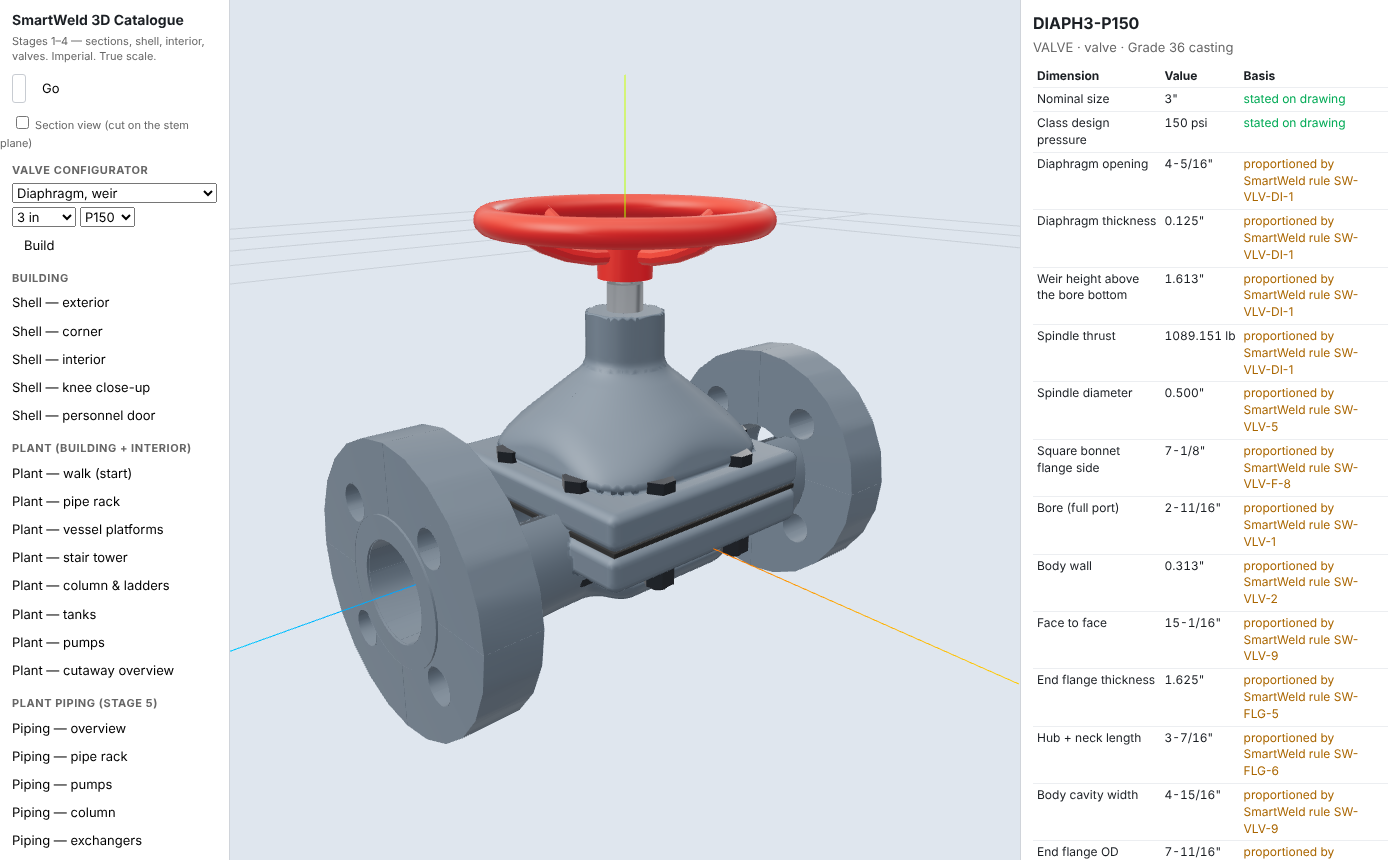
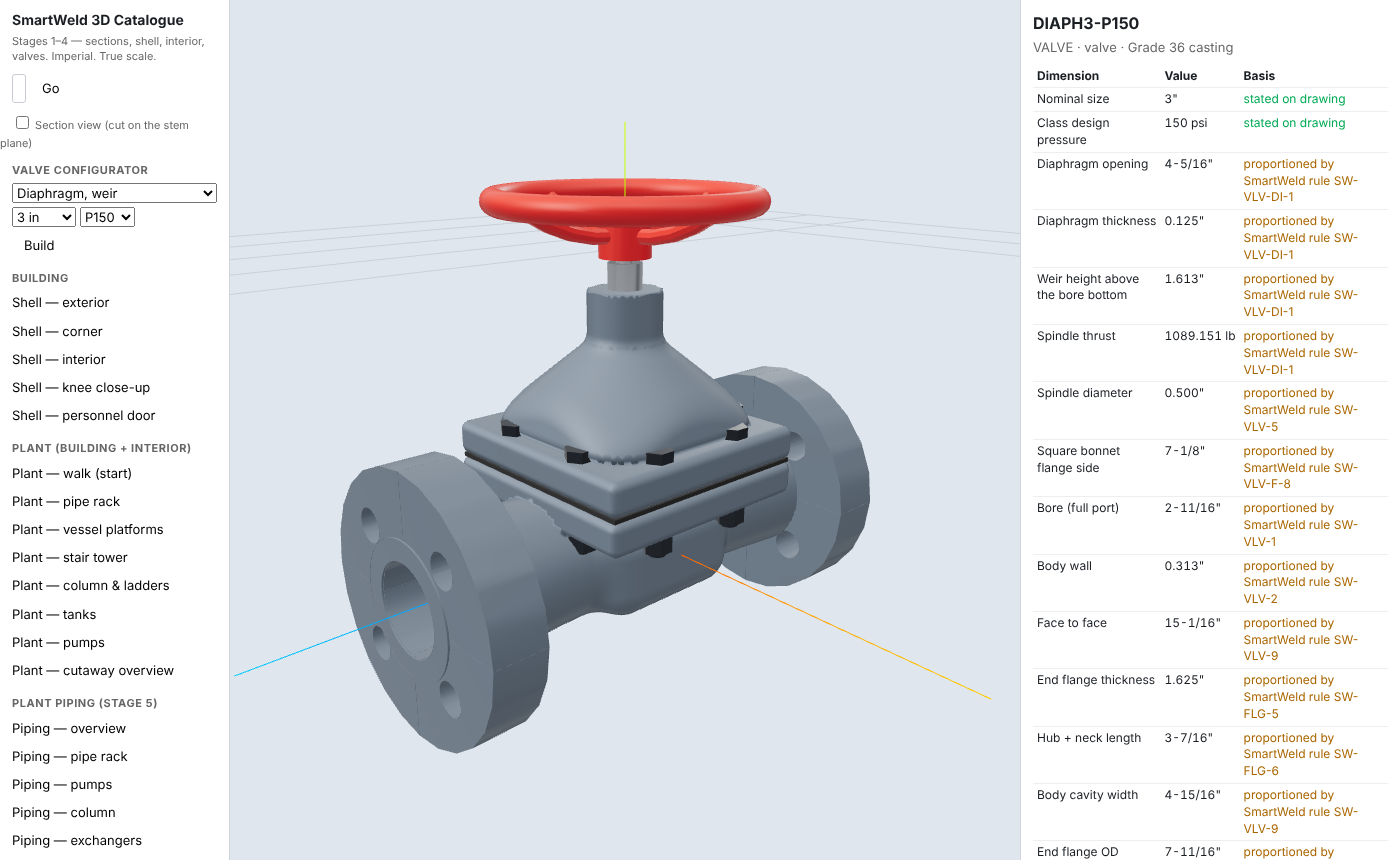
Valves: withdraw trunnion ball and dual-plate check; raise diaphragm body (P-49)
Catalogue now has 16 valve types. B-1 made self-contained; BT-* and CD-* retired; DI-1
body flange face at D/2 + t_b + 0.25 D. 417 tests passing; plant piping unchanged.

Claude-Session: https://claude.ai/code/session_01Lq1n1j5QwqtUtCwYEt9hS4

Changed region(s): [[0.215, 0.1814, 0.645, 0.8767], [0.2764, 0.8163, 0.3071, 0.8465]]

diff --git a/smartweld/src/catalogue/parts/valves.ts b/smartweld/src/catalogue/parts/valves.ts
@@ -1,4 +1,4 @@
-/** Valves: DESIGN_BASIS.md sections 31–32. 18 types, each a distinct design. Local frame: flow along +z, stem up +y, x across. */
+/** Valves: DESIGN_BASIS.md sections 31–32. 16 types, each a distinct design. Local frame: flow along +z, stem up +y, x across. */
 import { K } from '../../core/constants';
 import { drawing, rule, constant, type Dim } from '../../core/basis';
 import { roundUpTo } from '../../core/units';
@@ -15,11 +15,11 @@ import { polygonize, type SDF } from '../../geometry/sdf';
 
 const RHO = K.STEEL_DENSITY_LB_IN3;
 const rhoDim = () => constant(K.STEEL_DENSITY_LB_FT3, 'K-1', 'Steel density', 'lb/ft3');
-export type ValveType = 'GATE' | 'KNIFE' | 'GLOBE' | 'YGLOBE' | 'AGLOBE' | 'CHECK' | 'LCHECK' | 'DCHECK' | 'BALL' | 'TBALL' | 'BFLY' | 'LBFLY' | 'DBFLY' | 'PLUG' | 'DIAPH' | 'NEEDLE' | 'PSV' | 'CONTROL';
+export type ValveType = 'GATE' | 'KNIFE' | 'GLOBE' | 'YGLOBE' | 'AGLOBE' | 'CHECK' | 'LCHECK' | 'BALL' | 'BFLY' | 'LBFLY' | 'DBFLY' | 'PLUG' | 'DIAPH' | 'NEEDLE' | 'PSV' | 'CONTROL';
 export const VALVE_TYPES: { id: ValveType; name: string }[] = [
   { id: 'GATE', name: 'Gate, wedge, OS&Y' }, { id: 'KNIFE', name: 'Knife gate, lugged wafer' }, { id: 'GLOBE', name: 'Globe, T-pattern' }, { id: 'YGLOBE', name: 'Globe, Y-pattern' },
-  { id: 'AGLOBE', name: 'Angle globe' }, { id: 'CHECK', name: 'Swing check' }, { id: 'LCHECK', name: 'Lift (piston) check' }, { id: 'DCHECK', name: 'Dual-plate wafer check' },
-  { id: 'BALL', name: 'Ball, floating' }, { id: 'TBALL', name: 'Ball, trunnion-mounted' }, { id: 'BFLY', name: 'Butterfly, wafer' }, { id: 'LBFLY', name: 'Butterfly, lugged' },
+  { id: 'AGLOBE', name: 'Angle globe' }, { id: 'CHECK', name: 'Swing check' }, { id: 'LCHECK', name: 'Lift (piston) check' },
+  { id: 'BALL', name: 'Ball, floating' }, { id: 'BFLY', name: 'Butterfly, wafer' }, { id: 'LBFLY', name: 'Butterfly, lugged' },
   { id: 'DBFLY', name: 'Butterfly, double-flanged, double-offset' }, { id: 'PLUG', name: 'Plug, lubricated taper' }, { id: 'DIAPH', name: 'Diaphragm, weir' }, { id: 'NEEDLE', name: 'Needle' },
   { id: 'PSV', name: 'Pressure safety valve' }, { id: 'CONTROL', name: 'Control, globe with diaphragm actuator' },
 ];
@@ -32,7 +32,7 @@ const N = 48;
 // ---- offering (SW-VLV-11) --------------------------------------------------------------------------------
 const OFFER: Record<ValveType, [number, number, PipeClass]> = {
   GATE: [0.5, 48, 'P4800'], KNIFE: [2, 36, 'P150'], GLOBE: [0.5, 12, 'P4800'], YGLOBE: [0.5, 16, 'P4800'], AGLOBE: [0.5, 12, 'P4800'],
-  CHECK: [2, 48, 'P4800'], LCHECK: [0.5, 6, 'P4800'], DCHECK: [2, 48, 'P600'], BALL: [0.5, 6, 'P600'], TBALL: [2, 48, 'P4800'],
+  CHECK: [2, 48, 'P4800'], LCHECK: [0.5, 6, 'P4800'], BALL: [0.5, 6, 'P600'],
   BFLY: [2, 24, 'P300'], LBFLY: [2, 24, 'P300'], DBFLY: [3, 48, 'P1200'], PLUG: [0.5, 12, 'P600'], DIAPH: [0.5, 12, 'P300'],
   NEEDLE: [0.25, 1, 'P4800'], PSV: [1, 8, 'P4800'], CONTROL: [0.5, 12, 'P4800'],
 };
@@ -333,7 +333,7 @@ function globeBodySDF(c: Common, zi: number, tilt = 0): { body: SDF; info: Globe
 type Build = (b: ValveSolid[], NPS: number, cls: PipeClass, dims: Record<string, Dim>, notes: string[]) => { c: Common; op: Operator; extra?: Record<string, unknown> };
 const yokeTa = (c: Common) => Math.max(0.5, 0.15 * c.D, c.tb);
 
-// ---- kept: fabricated or machined designs (knife gate, dual-plate check, forged trunnion ball, needle) ----
+// ---- fabricated or machined designs (knife gate, needle) ----
 const buildKnife: Build = (b, NPS, cls, dims) => {
   const D0 = pipeDims(NPS, cls).D, P = CLASS_PRESSURE[cls];
   const w = Math.max(1.5, 0.12 * D0 + 1);
@@ -382,29 +382,9 @@ const buildKnife: Build = (b, NPS, cls, dims) => {
   return { c, op };
 };
 
-const buildDCheck: Build = (b, NPS, cls, dims) => {
-  const D0 = pipeDims(NPS, cls).D, wb = 0.25 * D0 + 1, c = common(NPS, cls, wb, D0); c.F2F = wb;
-  const { D, f } = c, bodyOD = f.BC - f.d - 0.25, rp = Math.max(0.375, 0.08 * D) / 2, tp = Math.max(3 / 16, 0.04 * D);
-  castPart(b, 'wafer body', S.subtract(S.blend(0.3, S.rcylZ(bodyOD / 2, -wb / 2, wb / 2, Math.min(0.3, wb * 0.15)), S.rcylY(0.45 + 0.03 * D, bodyOD / 2 - 0.5, bodyOD / 2 + 0.5, 0.15)), S.cylZ(D / 2, -wb, wb), S.cylY(0.22 + 0.01 * D, bodyOD / 2 - 0.4, bodyOD / 2 + 1)),
-    [-bodyOD / 2 - 0.3, -bodyOD / 2 - 0.3, -wb / 2 - 0.1], [bodyOD / 2 + 0.3, bodyOD / 2 + 0.7, wb / 2 + 0.1], Math.min(c.tb, wb / 4));                 // F-5: ring with lifting-eye boss
-  { const re = 0.5 + 0.03 * D, rw = 0.12 + 0.008 * D, yE = bodyOD / 2 + 0.5 + re;                                   // lifting eyebolt
-    push(b, 'lifting eyebolt', mergeMeshes([transformMesh(torusY(re, rw, 0), multiply(translate(0, yE, 0), rotateX(Math.PI / 2))), cylY(0.2 + 0.01 * D, bodyOD / 2 - 0.4, yE - re + rw)]), 'hardware', STUDM); }
-  for (const sy of [-1, 1]) push(b, 'retainer plug', hexPrismY(0.6 + 0.04 * D, sy > 0 ? bodyOD / 2 - 0.01 : -bodyOD / 2 - 0.35, sy > 0 ? bodyOD / 2 + 0.35 : -bodyOD / 2 + 0.01, 0, Math.min(0.3 * D, wb / 2 - rp * 0.7 - 0.1)), 'hardware', STUDM);   // retain the stop pin; the post is retained under the eye boss
-  const zStop = Math.min(0.3 * D, wb / 2 - rp * 0.7 - 0.1);
-  const rRet = (D / 2 + bodyOD / 2) / 2;                                                                       // post ends retained in holes in the body ring
-  push(b, 'hinge post', cylY(rp, -rRet, rRet), 'stem', BAR);
-  push(b, 'stop pin', cylY(rp * 0.7, -rRet, rRet, 0, zStop), 'stem', BAR);
-  for (const sx of [-1, 1]) {
-    const half: Polygon = dedupe([{ x: sx * (rp + 0.05), y: -0.48 * D }, ...arc(0, 0, 0.48 * D, sx > 0 ? -Math.PI / 2 : 1.5 * Math.PI, sx > 0 ? Math.PI / 2 : Math.PI / 2, 24).filter(p => sx * p.x >= rp + 0.05 - 1e-9), { x: sx * (rp + 0.05), y: 0.48 * D }]);
-    push(b, 'plate', transformMesh(extrude({ outer: half }, tp), translate(0, 0, 0.02)), 'closure');
-    push(b, 'torsion spring', transformMesh(helixTube(rp + 0.08, 0.1, 3, 0.04, 16, 8), multiply(translate(0, sx * 0.25 * D, 0), toY)), 'stem', 'Grade 180 spring wire');
-  }
-  Object.assign(dims, { bodyW: rule(wb, 'SW-VLV-CD-1', 'Body width'), bodyOD: rule(bodyOD, 'SW-VLV-CD-1', 'Body OD'), plateT: rule(tp, 'SW-VLV-CD-1', 'Plate thickness'), post: rule(2 * rp, 'SW-VLV-CD-1', 'Post diameter') });
-  return { c, op: { kind: 'none', rimForce: 0, T: 0 } };
-};
 
 const mirrorZ = (m: MeshData): MeshData => { const p = m.positions.slice(); for (let i = 2; i < p.length; i += 3) p[i] = -p[i]; const idx = m.indices.slice(); for (let k = 0; k < idx.length; k += 3) { const t = idx[k + 1]; idx[k + 1] = idx[k + 2]; idx[k + 2] = t; } return { positions: p, indices: idx }; };
-/** ball-valve body of BT-1: thick cylinder along z, bore 2Rc, OD Db, from −zj to zj, chamfered outer edges */
+/** ball-valve centre body of B-1: thick cylinder along z, bore 2Rc, OD Db, from −zj to zj, chamfered outer edges */
 function forgedBody(Rc: number, Db: number, zj: number, rr = 0.1 * (Db / 2 - Rc)): MeshData {
   const R = Db / 2, loop: { r: number; z: number }[] = [{ r: Rc, z: -zj }];
   for (let i = 0; i <= 8; i++) { const a = (Math.PI / 2) * (i / 8); loop.push({ r: R - rr + rr * Math.sin(a), z: -zj + rr - rr * Math.cos(a) }); }
@@ -413,7 +393,7 @@ function forgedBody(Rc: number, Db: number, zj: number, rr = 0.1 * (Db / 2 - Rc)
   return revolve(dedupeRZ(loop), N);
 }
 const dedupeRZ = (p: { r: number; z: number }[]) => p.filter((q, i) => i === 0 || Math.hypot(q.r - p[i - 1].r, q.z - p[i - 1].z) > 1e-6);
-/** one end of a ball valve on +z (BT-1 / B-1): bolted adapter (gasket, studs tapped into the body, adapter flange) or integral collar, then a curved taper, neck and pipe flange. */
+/** one end of a ball valve on +z (B-1): bolted adapter (gasket, studs tapped into the body, adapter flange) or integral collar, then a curved taper, neck and pipe flange. */
 function ballEnd(c: Common, fe: FlangeDesign, zj: number, Db: number, bolted: boolean, taperK = 0.45, neckMin = 0): { solids: ValveSolid[]; zFace: number } {
   const { D, tb, f } = c, out: ValveSolid[] = [], h = hexHardware(fe.d);
   const z1 = zj + fe.gasketT + fe.tf;
@@ -439,7 +419,7 @@ function ballEnd(c: Common, fe: FlangeDesign, zj: number, Db: number, bolted: bo
   return { solids: out, zFace };
 }
 const pushEnd = (b: ValveSolid[], e: { solids: ValveSolid[] }, side: 1 | -1) => { for (const x of e.solids) b.push({ ...x, mesh: side > 0 ? x.mesh : mirrorZ(x.mesh) }); };
-/** stem pad on top and trunnion/bottom pad on a cylindrical body of radius Rb2 (BT-1) */
+/** stem pad on top or bottom pad on a cylindrical body of radius Rb2 (B-1) */
 function bodyPad(Rb2: number, rp: number, up: 1 | -1, proud: number): MeshData {
   const y0 = Math.sqrt(Math.max(0, Rb2 * Rb2 - rp * rp)) - 0.2;
   return up > 0 ? cylY(rp, y0, Rb2 + proud) : cylY(rp, -(Rb2 + proud), -y0);
@@ -451,48 +431,6 @@ function ballWithBore(Rb: number, D: number): MeshData {
   loop.push({ r: D / 2, z: zc }, { r: D / 2, z: -zc });
   return revolve(loop, N);
 }
-const buildTBall: Build = (b, NPS, cls, dims) => {
-  const D0 = pipeDims(NPS, cls).D, Rb = 0.75 * D0, sc = 0.15 * D0;
-  const c = common(NPS, cls, 1.5 * D0 + 2 * sc + 1, 2 * Rb + 2 * sc); const { D, tb, P } = c;
-  const Rc = Rb + sc, fe = designFlange(NPS, cls, 2 * Rc, tb, 2 * Rc + 2 * tb), Db = fe.BC + 3.5 * fe.d, zj = Rc + 0.5;   // BT-1
-  push(b, 'centre body (forged)', forgedBody(Rc, Db, zj, 1.5 * fe.d));
-  const end = ballEnd(c, fe, zj, Db, true, 1.0, 0.25 * D);
-  pushEnd(b, end, 1); pushEnd(b, end, -1);
-  c.wBody = 2 * zj; c.F2F = 2 * end.zFace;
-  push(b, `ball ${2 * Rb} in`, ballWithBore(Rb, D), 'closure', BAR);
-  for (const s of [-1, 1]) {
-    push(b, 'seat carrier', ringZ(0.6 * D + sc, 0.6 * D - sc / 2, s * (Rb - 0.2 * sc) - sc / 2, s * (Rb - 0.2 * sc) + sc / 2), 'stem', BAR);
-    push(b, 'seat insert', ringZ(0.6 * D + sc / 4, 0.6 * D - sc / 2, s * (Rb - 0.2 * sc) - sc / 2 - 0.08, s * (Rb - 0.2 * sc) - sc / 2), 'polymer', 'polymer');
-    const room = Math.max(0.3, zj - (Rb + 0.3 * sc) - 0.1), spr: MeshData[] = [];                              // springs between the carrier and the adapter face
-    for (let i = 0; i < 6; i++) { const a = (2 * Math.PI * i) / 6; spr.push(transformMesh(helixTube(Math.min(0.06 * D, sc / 2), room / 3, 3, Math.min(0.02 * D, sc / 8), 12, 6), translate((0.6 * D + sc / 4) * Math.cos(a), (0.6 * D + sc / 4) * Math.sin(a), s > 0 ? Rb + 0.3 * sc : -Rb - 0.3 * sc - room))); }
-    push(b, 'seat springs 6', mergeMeshes(spr), 'stem', 'Grade 180 spring wire', 6);
-  }
-  const T = P * Math.PI * (1.2 * D) * (0.1 * D) * 0.1 * (0.6 * D) + P * (Math.PI / 4) * D * D * 0.05 * 0.5;        // BT-2 (stem term uses a provisional ds/2 = 0.5)
-  const ds = ballStem(T), op = sizeOperator(T, true);
-  // BT-1: stem housing — a raised boss closed by a bolted cover, then a mounting spool to the operator; the same boss
-  // and cover close the trunnion underneath
-  const rp = Math.max(ds + 3, 0.4 * D) / 2 + ds / 2, yBoss = Db / 2 + 1, tc = Math.max(0.75, 0.5 * ds), dB = Math.max(0.375, roundUpTo(0.12 * rp, 1 / 8)), hB = hexHardware(dB);
-  const rBC = rp - hB.F / 2 - 0.15, rSp = Math.max(ds / 2 + 1, 0.45 * rp), ySp0 = yBoss + tc, yNeck = ySp0 + 1.5 * ds + 1.5;
-  for (const up of [1, -1] as const) {
-    push(b, up > 0 ? 'stem housing boss' : 'trunnion boss', bodyPad(Db / 2, rp, up, yBoss - Db / 2));
-    push(b, up > 0 ? 'stem housing cover' : 'trunnion cover', up > 0 ? ringY(rp + 0.25, ds / 2 + 0.05, yBoss, yBoss + tc) : cylY(rp + 0.25, -(yBoss + tc), -yBoss));
-    const bl: MeshData[] = []; for (let i = 0; i < 8; i++) { const a = (Math.PI * (i + 0.5)) / 4, x = rBC * Math.cos(a), z = rBC * Math.sin(a); bl.push(up > 0 ? hexPrismY(hB.F, yBoss + tc, yBoss + tc + hB.H, x, z) : hexPrismY(hB.F, -(yBoss + tc + hB.H), -(yBoss + tc), x, z)); }
-    push(b, `${up > 0 ? 'cover' : 'trunnion cover'} bolts 8 × ${dB} in`, mergeMeshes(bl), 'hardware', 'Grade 90 bolt', 8);
-  }
-  push(b, 'mounting spool', ringY(rSp, ds / 2 + 0.05, ySp0, yNeck - 0.5));
-  push(b, 'mounting flange', ringY(rSp + 0.5, ds / 2 + 0.05, yNeck - 0.5, yNeck));
-  push(b, 'stem seal', ringY(ds / 2 + 0.03, ds / 2, yBoss - 0.6, yBoss - 0.2), 'polymer', 'polymer');
-  push(b, `stem ${ds} in`, cylY(ds / 2, Rb - 0.4 * ds, yNeck + 1), 'stem', BAR);
-  push(b, 'trunnion', cylY(ds / 2, -(Db / 2 + 0.5), -(Rb - 0.4 * ds)), 'stem', BAR);
-  if (NPS >= 8) {                                                                                                  // BT-1 saddle feet
-    const tF = tb + 0.25, yBase = -(yBoss + tc + hB.H + 1), xw = 0.3 * Db, yTopF = -Math.sqrt((Db / 2) ** 2 - xw * xw) + 0.3, ft: MeshData[] = [];
-    for (const sz of [-1, 1]) { const z = sz * 0.5 * zj; ft.push(box(-xw, yBase + 0.5, z - tF / 2, xw, yTopF, z + tF / 2), box(-xw - 1, yBase, z - 2, xw + 1, yBase + 0.5, z + 2)); }
-    push(b, 'saddle feet 2', mergeMeshes(ft));
-  }
-  operateQT(b, op, op.kind === 'gear' ? yNeck : yNeck + 0.2, ds, D);
-  Object.assign(dims, { ballD: rule(2 * Rb, 'SW-VLV-BT-1', 'Ball diameter'), carrier: rule(sc, 'SW-VLV-BT-1', 'Seat carrier section'), bodyOD: rule(Db, 'SW-VLV-BT-1', 'Body outside diameter'), torque: rule(T, 'SW-VLV-BT-2', 'Operating torque (lb·in)', 'lb'), stemD: rule(ds, 'SW-VLV-B-2', 'Stem / trunnion diameter') });
-  return { c, op, extra: { joint: fe, torque: T } };
-};
 
 const buildNeedle: Build = (b, NPS, cls, dims, notes) => {
   const D0 = pipeDims(NPS, cls).D, P = CLASS_PRESSURE[cls], AF = 2 * D0 + 0.75, Lb = 3 * D0 + 2;
@@ -680,7 +618,7 @@ const buildBall: Build = (b, NPS, cls, dims) => {
   push(b, `stem ${ds} in`, mergeMeshes([cylY(ds / 2, Rb - 0.4 * ds, yNeck + 1), cylY(ds, Rc - 0.4, Rc - 0.4 + 0.3 * ds)]), 'stem', BAR);
   push(b, 'stem nut', hexPrismY(1.5 * ds + 0.2, yNeck + 0.6, yNeck + 0.6 + 0.6 * ds), 'hardware', STUDM);
   operateQT(b, op, op.kind === 'gear' ? yNeck : yNeck + 0.2, ds, D);
-  Object.assign(dims, { ballD: rule(2 * Rb, 'SW-VLV-B-1', 'Ball diameter'), seat: rule(seat, 'SW-VLV-B-1', 'Seat section'), bodyOD: rule(Db, 'SW-VLV-BT-1', 'Body joint diameter'), bodySphere: rule(2 * Rs, 'SW-VLV-F-6', 'Body sphere diameter'), torque: rule(T, 'SW-VLV-B-2', 'Operating torque (lb·in)', 'lb'), stemD: rule(ds, 'SW-VLV-B-2', 'Stem diameter') });
+  Object.assign(dims, { ballD: rule(2 * Rb, 'SW-VLV-B-1', 'Ball diameter'), seat: rule(seat, 'SW-VLV-B-1', 'Seat section'), bodyOD: rule(Db, 'SW-VLV-B-1', 'Body joint diameter'), bodySphere: rule(2 * Rs, 'SW-VLV-F-6', 'Body sphere diameter'), torque: rule(T, 'SW-VLV-B-2', 'Operating torque (lb·in)', 'lb'), stemD: rule(ds, 'SW-VLV-B-2', 'Stem diameter') });
   return { c, op, extra: { joint: fe, torque: T } };
 };
 
@@ -769,7 +707,8 @@ const buildDiaph: Build = (b, NPS, cls, dims, notes) => {
   const D0 = pipeDims(NPS, cls).D, c = common(NPS, cls, 1.6 * D0, 1.6 * D0); c.wBody = 1.6 * D0 + 2 * c.tb; c.F2F = 2 * c.f.tf + 2 * c.hHub + c.wBody;
   const { D, tb, P } = c, zi = c.F2F / 2 - c.f.tf, k = blendK(c);
   endFlanges(b, c);
-  const Ro = 0.8 * D, yF = 0.3 * D, fb = designFlange(NPS, cls, 2 * Ro, tb, 2 * Ro + 2 * tb), hs = Ro + tb + 2.2 * fb.d, td = Math.max(0.125, 0.03 * D);
+  const Ro = 0.8 * D, yF = D / 2 + tb + 0.25 * D,   // DI-1: body flange face above the pipe axis
+    fb = designFlange(NPS, cls, 2 * Ro, tb, 2 * Ro + 2 * tb), hs = Ro + tb + 2.2 * fb.d, td = Math.max(0.125, 0.03 * D);
   const yLo = -(D / 2 + tb), yHi = yF - fb.tf;
   // F-8: the body flares from each flange hub into the body (no bare run tube)
   const rH = D / 2 + 2 * tb, rBf = 0.75 * (Ro + tb), zb = Ro + tb;
@@ -880,7 +819,7 @@ const buildControl: Build = (b, NPS, cls, dims, notes) => {
   return { c, op: { kind: 'none', rimForce: 0, T: 0 }, extra: { actuator: { Da, Fa }, stem: st, spring: spr } };
 };
 
-const BUILDERS: Record<ValveType, Build> = { GATE: buildGate, KNIFE: buildKnife, GLOBE: buildGlobe, YGLOBE: buildYGlobe, AGLOBE: buildAGlobe, CHECK: buildCheck, LCHECK: buildLCheck, DCHECK: buildDCheck, BALL: buildBall, TBALL: buildTBall, BFLY: buildBfly, LBFLY: buildLBfly, DBFLY: buildDBfly, PLUG: buildPlug, DIAPH: buildDiaph, NEEDLE: buildNeedle, PSV: buildPSV, CONTROL: buildControl };
+const BUILDERS: Record<ValveType, Build> = { GATE: buildGate, KNIFE: buildKnife, GLOBE: buildGlobe, YGLOBE: buildYGlobe, AGLOBE: buildAGlobe, CHECK: buildCheck, LCHECK: buildLCheck, BALL: buildBall, BFLY: buildBfly, LBFLY: buildLBfly, DBFLY: buildDBfly, PLUG: buildPlug, DIAPH: buildDiaph, NEEDLE: buildNeedle, PSV: buildPSV, CONTROL: buildControl };
 
 export function makeValve(id: string, type: ValveType, NPS: number, cls: PipeClass): PartSpec {
   if (!isOffered(type, NPS, cls)) throw new Error(`${type} is not offered in ${NPS} in ${cls} (SW-VLV-11)`);

diff --git a/smartweld/tests/stage4.test.ts b/smartweld/tests/stage4.test.ts
@@ -72,7 +72,7 @@ describe('valves (SW-VLV-*)', () => {
       expect(offeredSizes(t.id, 'P150').length).toBeGreaterThan(0);
       for (const n of SIZE_SERIES) for (const c of CLASS_SERIES) if (isOffered(t.id, n, c)) expect(n * n * CLASS_PRESSURE[c]).toBeLessThanOrEqual(1800000);
     }
-    expect(isOffered('BALL', 8, 'P150')).toBe(false); expect(isOffered('TBALL', 8, 'P150')).toBe(true);
+    expect(isOffered('BALL', 8, 'P150')).toBe(false);
     expect(isOffered('KNIFE', 6, 'P300')).toBe(false); expect(isOffered('NEEDLE', 0.5, 'P4800')).toBe(true);
     expect(() => makeValve('x', 'BALL', 8, 'P150')).toThrow();
   });
@@ -82,16 +82,16 @@ describe('valves (SW-VLV-*)', () => {
     const mid = offeredSizes(t.id, 'P150'); const n2 = mid[Math.floor(mid.length / 2)];
     for (const c of offeredClasses(t.id, n2)) if (c !== 'P150') sample.push([t.id, n2, c]);      // every class at a middle size
   }
-  it(`sample covers ${sample.length} builds across all 18 types`, () => { expect(sample.length).toBeGreaterThan(150); });
+  it(`sample covers ${sample.length} builds across all 16 types`, () => { expect(sample.length).toBeGreaterThan(150); });
   for (const [type, NPS, cls] of sample) {
     it(`${type}${NPS}-${cls}: rules hold, solids closed, rules audited`, () => {
       const v = makeValve('v', type, NPS, cls);
       const D = pipeDims(NPS, cls).D, f = designFlange(NPS, cls);
       expect(v.dims.D.value).toBeCloseTo(D, 9);
       if (['GATE', 'GLOBE', 'YGLOBE', 'CHECK', 'LCHECK', 'PLUG', 'DIAPH', 'CONTROL'].includes(type)) expect(v.dims.F2F.value).toBeCloseTo(2 * f.tf + 2 * (f.hubLen + 1) + v.dims.wBody.value, 9);
-      if (type === 'BALL' || type === 'TBALL') {                                     // BT-1: studded body joint, body longer than the cavity, F2F = body + two ends
+      if (type === 'BALL') {                                     // B-1: studded body joint, body longer than the cavity, F2F = body + two ends
         const j = v.extra!.joint as { BC: number; d: number; n: number };
-        expect(v.dims.bodyOD.value).toBeCloseTo(j.BC + (type === "TBALL" ? 3.5 : 2.5) * j.d, 9);   // BT-1 (amended, P-48), B-1
+        expect(v.dims.bodyOD.value).toBeCloseTo(j.BC + 2.5 * j.d, 9);   // B-1
         expect(v.dims.bodyOD.value).toBeGreaterThan(v.dims.ballD.value);
         expect(j.n % 4).toBe(0);
         expect(v.dims.F2F.value).toBeGreaterThan(v.dims.wBody.value + 2 * f.tf);

diff --git a/smartweld/tools/contact-sheet.py b/smartweld/tools/contact-sheet.py
@@ -3,8 +3,8 @@ import sys
 from PIL import Image, ImageDraw
 src = sys.argv[1] if len(sys.argv) > 1 else 'screenshots/stage4'
 SHEETS = {
-    'sheet-1.png': ['v-GATE', 'v-GLOBE', 'v-YGLOBE', 'v-AGLOBE', 'v-CHECK', 'v-LCHECK-section', 'v-DCHECK', 'v-BALL', 'v-TBALL', 'v-BFLY', 'v-LBFLY', 'v-DBFLY'],
-    'sheet-2.png': ['v-PLUG', 'v-DIAPH', 'v-NEEDLE', 'v-PSV', 'v-CONTROL', 'v-KNIFE', 'v-GATE-gear', 'v-GATE-section'],
+    'sheet-1.png': ['v-GATE', 'v-GLOBE', 'v-YGLOBE', 'v-AGLOBE', 'v-CHECK', 'v-LCHECK-section', 'v-BALL', 'v-BFLY', 'v-LBFLY', 'v-DBFLY', 'v-PLUG', 'v-DIAPH'],
+    'sheet-2.png': ['v-NEEDLE', 'v-PSV', 'v-CONTROL', 'v-KNIFE', 'v-GATE-gear', 'v-GATE-section', 'v-DIAPH-section', 'v-BALL-section'],
 }
 W, H = 395, 380
 for out, names in SHEETS.items():

diff --git a/smartweld/DESIGN_BASIS.md b/smartweld/DESIGN_BASIS.md
@@ -961,62 +961,34 @@ simple and tight in small bores; above 6 in its weight slams).
   diameter and 0.3 D long guided in a dashpot cylinder of bore 1.2 D + 1/32 in hanging from a
   bolted cap (SW-VLV-7) with a domed top. Reason: the dashpot damps the closing stroke.
 
-Dual-plate wafer check (`SW-VLV-CD-*`). Sizes 2–48, classes up to P600 (thin spring-loaded
-plates).
-
-- `CD-1` Wafer body ring of width 0.25 D + 1 in, outside diameter BC − d − 1/4 in; a central
-  post of diameter max(3/8 in, 0.08 D) across the bore carrying two D-shaped plates of
-  thickness max(3/16 in, 0.04 D) on a torsion spring each, with a stop pin behind; shown
-  closed. Reason: half the swing of a single disc, so it closes before reverse flow builds;
-  the wafer body is the shortest and lightest check valve.
+Dual-plate wafer check: withdrawn from the catalogue by SmartWeld on review (P-49); rules
+CD-* retired. The swing check (C-*) and lift check (CL-*) remain.
 
 Ball, floating (`SW-VLV-B-*`). Sizes 1/2–6, classes up to P600 (the whole pressure end-force
 bears on the downstream polymer seat; above this it would extrude).
 
 - `B-1` Ball diameter 1.5 D with a through bore D; two polymer seat rings of section 0.1 D ×
-  0.1 D at mean diameter 1.2 D; two-piece body: a centre body built as BT-1 (cylinder of
-  diameter D_b around a cavity 1.5 D + 2 × 0.1 D) with the inlet end integral (a solid
-  collar of the adapter flange thickness and the same taper) and the outlet end a bolted
-  adapter studded into the body as BT-1. (Amended on user review, as BT-1.) Reason: the ball must cover the seat with margin in every
-  position; the seats carry the ball against the downstream seat.
+  0.1 D at mean diameter 1.2 D. Two-piece body: a centre body that is a thick cylinder along
+  the flow axis around a cavity 1.5 D + 2 × 0.1 D, of outside diameter D_b = BC_j + 2.5 d_j
+  where BC_j and d_j are the joint bolting of SW-FLG-3/4 applied to a gasket on the cavity
+  bore, with 10 % chamfers on its outer edges; the inlet end integral (a solid collar of the
+  adapter flange thickness tapering to the pipe neck); the outlet end a one-piece bolted
+  adapter — a flange of diameter D_b clamped to the body face by studs tapped 1.5 d_j into the
+  body (nut on the adapter, stick-out d_j/4), then a curved taper, 0.45 × its radial drop long,
+  from just inside the nut circle down to a neck of radius D/2 + 2 t_b, then the pipe end
+  flange (SW-FLG). Reason: the ball must cover the seat with margin in every position; the
+  seats carry the ball against the downstream seat; studding the joint into the body wall
+  keeps the joint diameter equal to the body, and the adapter tapers because the bolt load
+  must be carried into the much smaller pipe neck. (Made self-contained when BT-* was
+  withdrawn, P-49; the construction is unchanged.)
 - `B-2` Torque T = P (π/4) (1.2 D)² μ_s (0.75 D) × 1.2 with seat friction μ_s = 0.1 on polymer,
   20 % for the stem seal. Stem diameter d_s = roundup( max( (16 T / (π · 0.3 F_y,stem))^(1/3),
   3/8 in ), 1/16 in ) (shear in torsion), with a square drive and a blow-out shoulder. Lever or
   gear per SW-VLV-4; lever of flat bar 0.25 D × 1/4 in minimum 1 in × 1/4 in with a 90° stop.
 
-Ball, trunnion-mounted (`SW-VLV-BT-*`). Sizes 2–48, all classes within SW-VLV-11.
-
-- `BT-1` Three-piece forged body: a centre body that is a thick cylinder along the flow axis,
-  bore = the cavity (1.5 D + 2 × 0.15 D), length = cavity + 1 in, outside diameter
-  D_b = BC_j + 2.5 d_j where BC_j and d_j are the joint bolting of SW-FLG-3/4 applied to a
-  gasket on the cavity bore; 10 % chamfers on its outer edges; a flat stem pad on top and a
-  trunnion pad underneath (diameter max(d_s + 3 in, 0.4 D)), the trunnion closed by a cover
-  with four 3/8 in bolts. Two end adapters, each one piece: a flange of diameter D_b clamped to
-  the body face by studs tapped 1.5 d_j into the body (nut on the adapter, stick-out d_j/4),
-  then a curved taper, 0.45 × its radial drop long, from just inside the nut circle down to a
-  neck of radius D/2 + 2 t_b, then the pipe end flange (SW-FLG). Face-to-face = body + 2 × (gasket + adapter). Reason: a
-  forged body is a cylinder because it is machined from a bar or ring forging; studding the
-  joint into the body wall instead of adding an outward flange keeps the joint diameter equal
-  to the body, which is how these bodies are built; the adapter tapers because the bolt load
-  must be carried into the much smaller pipe neck. (Amended on user review: the earlier
-  flange-to-flange joint stood proud of a narrow body and was not a real construction.)
-  Second amendment on user review (P-48): body OD D_b = BC_j + 3.5 d_j so its outer edges can
-  be rounded with radius 1.5 d_j outside the nut circle; each adapter's taper runs over its full
-  radial drop (concave, from the joint flange to the neck) and its neck is at least 0.25 D long
-  before the end flange, so the end connectors read as the forged cones they are; the stem
-  housing is a raised round boss on top of the body closed by a bolted cover flange (8 bolts),
-  with a cylindrical mounting spool to the operator; the trunnion is closed underneath by the
-  same boss and cover; from 8 in, two saddle feet (plates of thickness t_b + 1/4 in, 0.6 D_b
-  wide, at half the body length from the centre) stand under the body on base plates 1 in
-  below the trunnion cover bolts. Reason: the bonnet and trunnion covers are separate
-  bolted parts so the stem and trunnion bearings can be serviced; large valves are set on
-  feet so the line does not carry their weight. Ball 1.5 D, carried on the
-  stem and a bottom trunnion of diameter d_s in bearings; seat carriers (rings of section
-  0.15 D × 0.15 D) pressed onto the ball by coil springs. Reason: the trunnions take the
-  end-force, so the seats only have to seal, which is what makes large and high-pressure ball
-  valves possible.
-- `BT-2` Torque T = P π (1.2 D)(0.1 D) μ_s (0.6 D) + P (π/4) D² μ_b (d_s / 2), with μ_s = 0.1
-  (seat) and μ_b = 0.05 (bearing). Stem by B-2. Lever or gear per SW-VLV-4.
+Ball, trunnion-mounted: withdrawn from the catalogue by SmartWeld on review (P-49); rules
+BT-* retired. Ball valves are the floating ball (B-*), sizes 1/2–6; larger quarter-turn
+isolation is by the butterfly valves.
 
 Butterfly, wafer, resilient seat (`SW-VLV-BF-*`). Sizes 2–24, classes up to P300 (the
 polymer liner is the seat and the body is clamped, not bolted).
@@ -1062,7 +1034,10 @@ Plug, lubricated taper plug (`SW-VLV-PL-*`). Sizes 1/2–12, classes up to P600.
 Diaphragm, weir type (`SW-VLV-DI-*`). Sizes 1/2–12, classes up to P300 (the diaphragm is
 the pressure boundary).
 
-- `DI-1` Body: run bore D with a weir rising 0.6 D at mid-length and a round top opening of
+- `DI-1` Body: run bore D with a weir rising 0.6 D at mid-length; the body rises above the
+  run so that its top (bolting) flange face stands D/2 + t_b + 0.25 D above the pipe axis
+  (amended on user review from 0.3 D, P-49: the body and bonnet sat too low between the end
+  flanges; the raised body gives the diaphragm a deeper bowl to close into); a round top opening of
   diameter 1.6 D with a flat bolting flange; diaphragm a polymer disc 1.6 D + 2 t_f in diameter
   and max(1/8 in, 0.03 D) thick, clamped by the bonnet flange with studs per SW-FLG-3/4 on the
   opening; bonnet a rounded dome of the flange diameter and height 0.45 × its diameter with
@@ -1164,9 +1139,9 @@ rules of sections 29–32.
   disc must swing clear into the chamber, which therefore extends along the flow.
 - `F-6` Floating ball: a cast body that is a sphere of radius (0.85 D + t_b) around the ball
   cavity, blended into the integral inlet end and into a joint collar of diameter D_b
-  (BT-1) on the outlet side; a bolted end connector (flange of diameter D_b and a neck
+  (B-1) on the outlet side; a bolted end connector (flange of diameter D_b and a neck
   tapering to the pipe flange) studded into the collar; a flat top pad with the stem and a
-  flat-bar lever with a stop. Trunnion ball: the forged construction of BT-1.
+  flat-bar lever with a stop.
 - `F-7` Butterfly (wafer, lug): a ring body with a cylindrical neck rising max(2-1/2 in,
   0.25 D) above the ring to a square top plate (side 2.6 × the neck radius) that carries the
   lever and notch plate or the gearbox, and a short bottom boss; the wafer body has four

diff --git a/smartweld/PROVENANCE.md b/smartweld/PROVENANCE.md
@@ -67,6 +67,7 @@ appended.
 | P-46 | 2026-11-01 | Stage 5 verified: 203 lines (88 routed, 9 rack headers, 106 stubs) with no routing failures; 2,906 components (574 pipe pieces, 5,199 ft of pipe, 303 elbows, 139 tees, 12 reducers, 18 caps, 317 weld-neck flanges, 143 blinds, 560 gaskets with 560 stud sets, 280 valves: 201 ball, 64 gate, 8 swing check, 4 control, 3 safety); 1,265 line butt welds (326 field) plus 100 nozzle neck welds; 239 supports (68 hangers, 67 shoes, 61 guides, 20 anchors, 20 trunnions, 2 stanchions, 1 trapeze); 100 nozzles with necks. Every §40 check passes on the full model, with an independent checker that reads only the plain data: continuity within 1/16 in, one weld per butt joint and per tee outlet, gasket and stud set at every flanged joint, elbow radius, no back-to-back elbows, pipe pieces 2 in to 40 ft, line numbering and valve offering, 3 in clearance between lines (valves by their drawn envelope; closest pair 3.43 in) and to the structure and equipment, spans and rack shoes, and the rule audit. 460 tests passing. The model is committed as `public/plant-piping.json`, and a test checks it equals a fresh run. |
 | P-47 | 2026-11-01 | Viewer: plant piping views (overview, rack, pumps, column, exchangers, tanks, plan, walk) and a line inspector (bill of materials, weld list with shop/field, supports, highlighted line). Display-only level of detail, dimensions unchanged: valves within 40 ft of the eye on a 40-cell marching grid, farther ones on 18; tees drawn as run and branch pipe meeting at a sharp crotch (the blended tee casting needs 260k triangles at its wall-limited grid). Stated simplifications: concentric reducers only (pump suctions); no insulation; instrument and sample connections end at a valve and blind (no instruments); control valves without bypasses; no stress analysis or expansion loops (anchors and guides placed by rule only); nozzle-to-shell welds belong to equipment fabrication and are not recorded; supports are checked for a clear rod or post path, not for full clearance. |
 | P-48 | 2026-10-31 | User review of the valve contact sheets: the knife gate and diaphragm valve "don't look right" and the trunnion-mounted ball valve "is not a real valve shape". Accepted. Reworked by reasoning from the generic arrangement of each type (P-39), no source consulted, rules amended in DESIGN_BASIS.md before the code: K-1 (knife gate body as one casting — lugged ring rising into a gate chest with packing box and top flange; gland plates on short studs; straight parallel yoke legs with bolted feet and a yoke plate, replacing splayed tapered arms and box-built housing); F-8 (diaphragm body flares from the flange hubs into the body; bonnet square at its flange and round above, rising to a round spindle neck, replacing a low dome on bare run tubes); BT-1 (trunnion ball body OD BC_j + 3.5 d_j with edges rounded 1.5 d_j; end adapters taper over their full radial drop with a neck of at least 0.25 D; bolted stem-housing and trunnion covers on raised bosses; mounting spool to the operator; saddle feet from 8 in). Load-carrying sizes (bore, walls, stems, thrust, torque, flanges, bolting) unchanged. Stage-4 test updated for the amended BT-1 body diameter. Plant piping unaffected (it uses no knife, diaphragm or trunnion ball valves). |
+| P-49 | 2026-10-31 | User decision after the P-48 rework: the trunnion-mounted ball valve and the dual-plate wafer check "should not exist"; the diaphragm valve stays but its body must be raised. Done: TBALL and DCHECK removed from the catalogue (type list, offering, builders, configurator, tests, renders); rules BT-* and CD-* retired in DESIGN_BASIS.md with a withdrawal note. The floating ball's rule B-1 had borrowed its body and adapter construction from BT-1; that construction is now written out in B-1 itself, unchanged. DI-1 amended before the code: the diaphragm body's top flange face stands D/2 + t_b + 0.25 D above the pipe axis (was 0.3 D), so the body and bonnet sit above the run between the end flanges. The catalogue now has 16 valve types. Plant piping unaffected (it uses gate, ball, swing check, control and safety valves only). README, IP_REVIEW.md, contact sheets and the counsel statement updated to 16 types. |
 | P-10 | 2026-10-31 | Architecture decision: the part model is plain JSON-serialisable data (`PartSpec` with per-dimension basis tags). Geometry (`geometry/`) converts it to profile polygons and mesh arrays without any renderer dependency. The three.js viewer and the ground-truth export both consume the same data. |
 
 ## External resources

diff --git a/smartweld/IP_REVIEW.md b/smartweld/IP_REVIEW.md
@@ -56,9 +56,7 @@ the function that dictates it.
 | Swing check | Chamber long along the flow, round bolted cover | F-5 | Disc must swing clear; cover is the only service access |
 | Swing check | Raised centre on cover; hinge-pin bosses | F-5 | Stiffens the cover against pressure; carries the hinge pin |
 | Lift check | Small domed cap | F-5 | Houses the dashpot guide; dome resists pressure |
-| Dual-plate check | Wafer ring, two plates on a post, lifting eye, plugs | CD-1 | Short, light check; plugs retain the pins; eye lifts it into place |
 | Floating ball | Spherical body, bolted end connector | B-1, F-6 | Encloses the ball; connector allows ball insertion |
-| Trunnion ball | Forged cylindrical body, studded joint, tapered adapters | BT-1 | Machined from forgings; joint load carried into a smaller neck |
 | Ball, butterfly, plug | Flat top pad or plate | F-6, F-7, F-8 | Mounting face for the lever or gearbox |
 | Butterfly | Ring body, tall neck, top plate | F-7 | Clamped between flanges; neck clears pipe insulation |
 | Butterfly | Locating ears with holes; lugs | F-7, BL-1 | Centre the valve on the line studs; lugs allow dead-end service |
@@ -87,7 +85,7 @@ editing one rule in `DESIGN_BASIS.md` and its code, without touching anything el
 
 ## 4. What counsel needs to decide or search
 
-1. **Design patents and registered designs.** Search each of the 18 valve forms (renders in
+1. **Design patents and registered designs.** Search each of the 16 valve forms (renders in
    `screenshots/stage4/`, contact sheets `sheet-1.png`, `sheet-2.png`) in every market where
    SmartWeld will use or sell this product. This session had no access to patent databases.
 2. **Trade dress.** Review the colour scheme (§3) and any overall look against marks in use.

diff --git a/smartweld/README.md b/smartweld/README.md
@@ -11,7 +11,7 @@ must accompany any distribution of the viewer. No published dimension tables, st
 | 1     | Structural sections, plates, connection hardware, welds | done    |
 | 2     | Building shell (frame, cold-formed framing, cladding, roof, doors) | done |
 | 3     | Interior: equipment, pipe rack, platforms, access steel  | done (SmartWeld rules only; no regulation cited, by user decision) |
-| 4     | Pipe, flanges and 18 valve types, all sizes and classes offered (SW-VLV-11) | done |
+| 4     | Pipe, flanges and 16 valve types, all sizes and classes offered (SW-VLV-11) | done |
 | 5     | Piping and routing: 203 lines with fittings, valves, welds and supports; all §40 checks pass | done |
 | 6     | Ground-truth export                                     | next |
 
@@ -28,7 +28,7 @@ npm run gen:piping # regenerate public/plant-piping.json (about a minute) after 
 
 Type any designation into the viewer (e.g. `W18x50`, `C12x20.7`, `L5x3x3/8`, `HSS8x6x3/8`,
 `HSS10x1/2`, `PL3/4x10x14`, `B7/8x3`, `FW5/16`, `GW3/4`). Use the valve configurator (type, size, class) to build any
-of the 18 valve types in any offered size and class; the "Section view" checkbox cuts any part on
+of the 16 valve types in any offered size and class; the "Section view" checkbox cuts any part on
 its stem plane.
 
 ## Layout
